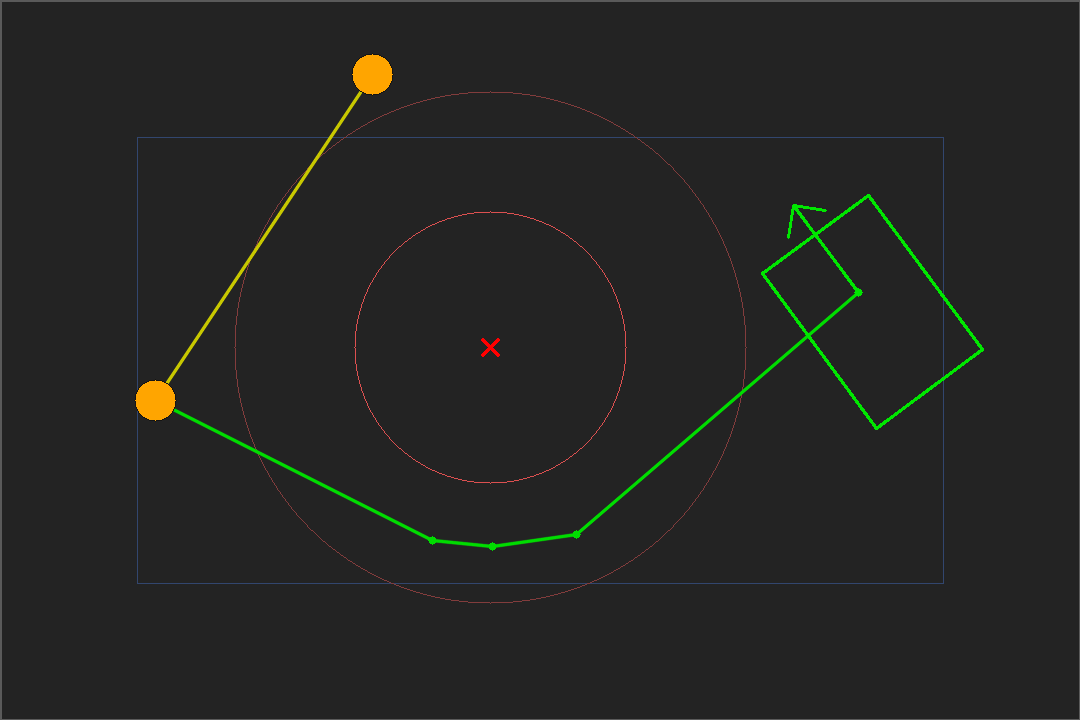
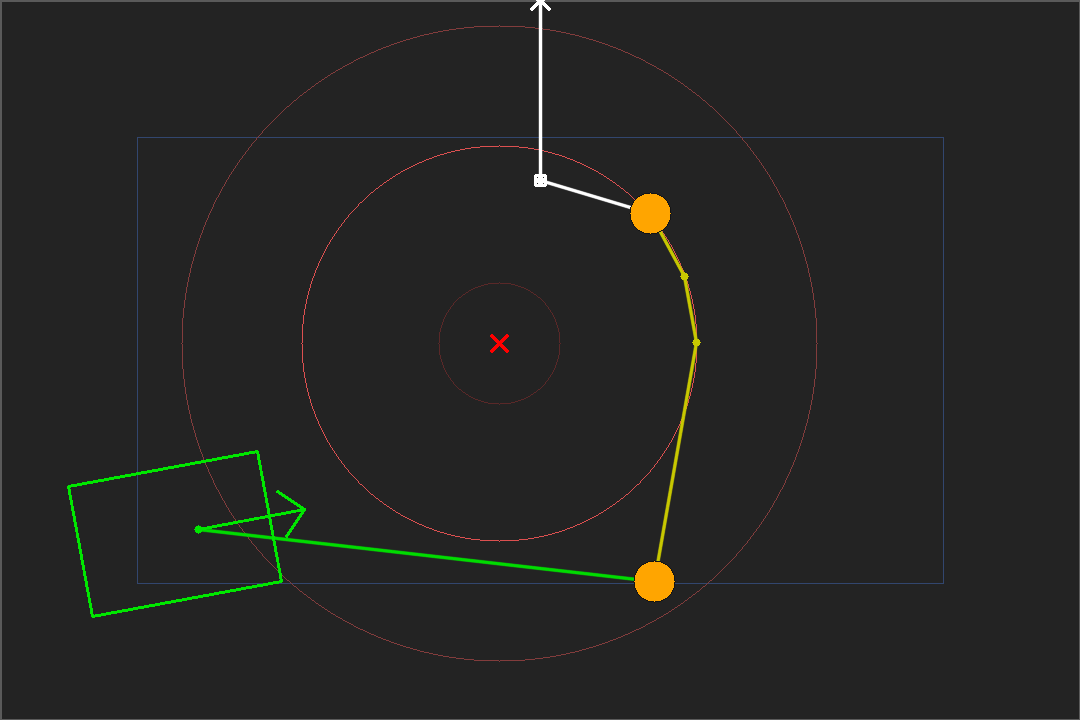
new route

diff --git a/src/server/phases/delivery.py b/src/server/phases/delivery.py
@@ -1,3 +1,5 @@
+
+
 """
 GolfBot -- Fase 6: Aflevering
 ================================
@@ -20,7 +22,8 @@ def deliver_balls(ctx):
 
     1. Saet transportbaand i reverse (COLLECT_EJECT)
     2. Vent 3 sekunder mens transportbaandet koerer i reverse
-    3. Koer 6 cm frem og 6 cm tilbage mens transportbaandet stadig koerer i reverse
+    3. Koer skiftevis 6 cm frem og tilbage 6 gange mens transportbaandet
+       stadig koerer i reverse
     4. Bak vaek fra maalet
 
     Args:
@@ -40,14 +43,21 @@ def deliver_balls(ctx):
         ctx.iteration))
     time.sleep(3.0)
 
-    # Rok robotten frem og tilbage mens transportbaandet stadig koerer i reverse
-    print("[{}] [Aflevering] Koerer 6 cm frem mens transportbaandet koerer reverse...".format(
-        ctx.iteration))
-    send_and_verify(ctx.client, "FORWARD", 6.0)
+    # Rok robotten frem og tilbage mens transportbaandet stadig koerer i reverse.
+    # COLLECT_EJECT sendes igen foer hver bevaegelse, saa baandet holdes i reverse.
+    for step in range(6):
+        distance_cm = -6.0 if step % 2 == 0 else 6.0
+        direction = "frem" if distance_cm > 0 else "tilbage"
 
-    print("[{}] [Aflevering] Koerer 6 cm tilbage mens transportbaandet koerer reverse...".format(
+        send_and_verify(ctx.client, "COLLECT_EJECT")
+        print("[{}] [Aflevering] Koerer 6 cm {} mens transportbaandet koerer reverse ({}/6)...".format(
+            ctx.iteration, direction, step + 1))
+        send_and_verify(ctx.client, "FORWARD", distance_cm)
+
+    # Stop aflevringsmotor foer robotten bakker vaek fra maalet
+    print("[{}] [Aflevering] Stopper aflevringsmotor foer robotten bakker...".format(
         ctx.iteration))
-    send_and_verify(ctx.client, "FORWARD", -6.0)
+    send_and_verify(ctx.client, "COLLECT_STOP")
 
     # Bak vaek fra maalet
     print("[{}] [Aflevering] Bakker 10 cm vaek fra maalet...".format(ctx.iteration))
@@ -55,7 +65,3 @@ def deliver_balls(ctx):
     time.sleep(1.0)
 
     print("[{}] [Aflevering] Aflevering faerdig!".format(ctx.iteration))
-
-    # Stop aflevringsmotor (klar til naeste runde)
-    print("[{}] [Aflevering] Stopper aflevringsmotor...".format(ctx.iteration))
-    send_and_verify(ctx.client, "COLLECT_STOP")

diff --git a/config.py b/config.py
@@ -23,7 +23,7 @@ Sektioner:
 
 # IP-adresse på EV3 robotten — SKAL opdateres til jeres netværk!
 # Find den ved at køre: ip addr   på EV3'en
-ROBOT_IP    = "172.20.10.12"
+ROBOT_IP    = "172.20.10.4"
 
 PORT        = 12345   # TCP-port EV3 lytter på
 BUFFER_SIZE = 1024    # Bytes der læses ad gangen fra socket
@@ -47,7 +47,7 @@ RETRY_DELAY_SEC = 2
 # Brugt i: src/robot/motor_controller.py  (linje 6-9)
 
 WHEEL_DIAMETER_CM  = 6.88    # Hjuldiameter i cm  (mål dit hjul med en lineal)
-AXLE_TRACK_CM      = 12.0    # Afstand mellem hjulcentrene i cm
+AXLE_TRACK_CM      = 20.0    # Afstand mellem hjulcentrene i cm
 MOTOR_SPEED        = 30      # Kørehastighed i procent (0-100)
 
 # Bevægelses-ports
@@ -165,7 +165,7 @@ FIELD_CORNERS_PX = [
 # Mindste drejningsvinkel i grader (dead-zone).
 # Drejninger mindre end dette ignoreres for at undgaa oscillering.
 # Brugt i: src/server/phases/drive_to_ball.py og drive_to_goal.py
-MIN_TURN_DEGREES = 1.0
+MIN_TURN_DEGREES = 5.0
 
 # Ekstra cm robotten kører FORBI boldens position.
 # Kompenserer for afstand fra markør til opsamler-åbning.

diff --git a/src/vision/color_calibrator.py b/src/vision/color_calibrator.py
@@ -78,7 +78,7 @@ class ColorCalibrator:
                 pass
 
         # Særlige standardværdier hvis de ikke findes i forvejen
-        if self.profile_name in ["orange", "hvid"] and "min_circularity" not in profile:
+        if self.profile_name in ["orange", "white"] and "min_circularity" not in profile:
             profile["min_circularity"] = 0.5
             profile["max_aspect_ratio"] = 1.5
         elif self.profile_name == "roed" and "min_circularity" not in profile:
